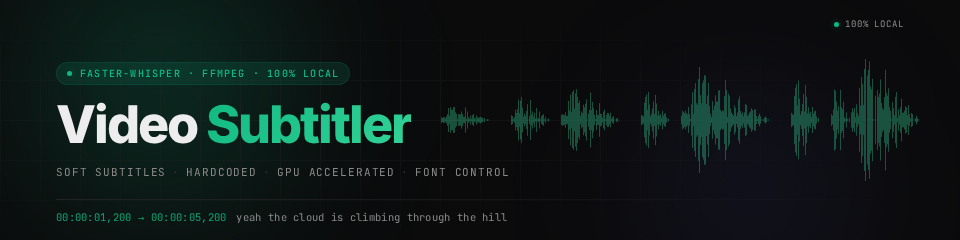
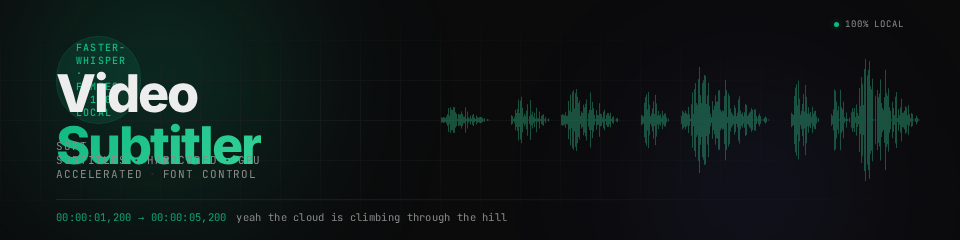
Align Video Subtitler title with waveform midline at signboard vertical center

Changed region(s): [[0.0625, 0.1458, 0.5312, 0.7583]]

diff --git a/docs/signboard_v5.html b/docs/signboard_v5.html
@@ -78,9 +78,6 @@
   .content {
     position: relative;
     z-index: 1;
-    display: flex;
-    flex-direction: column;
-    justify-content: center;
     padding: 0 56px;
     height: 100%;
   }
@@ -99,8 +96,10 @@
     background: rgba(16, 185, 129, 0.12);
     border: 1px solid rgba(16, 185, 129, 0.12);
     border-radius: 100px;
-    margin-bottom: 14px;
-    width: fit-content;
+    position: absolute;
+    top: 50%;
+    left: 56px;
+    transform: translate(0, calc(-50% - 26px - 14px));
   }
   .eyebrow::before {
     content: '';
@@ -118,6 +117,10 @@
     letter-spacing: -2px;
     color: #ededed;
     line-height: 1;
+    position: absolute;
+    top: 50%;
+    left: 56px;
+    transform: translateY(-50%);
   }
 
   .title .accent {
@@ -132,8 +135,11 @@
     font-size: 11px;
     color: #8a8a8a;
     letter-spacing: 0.08em;
-    margin-top: 14px;
     text-transform: uppercase;
+    position: absolute;
+    top: 50%;
+    left: 56px;
+    transform: translate(0, calc(-50% + 26px + 14px));
   }
 
   .tagline .sep {
